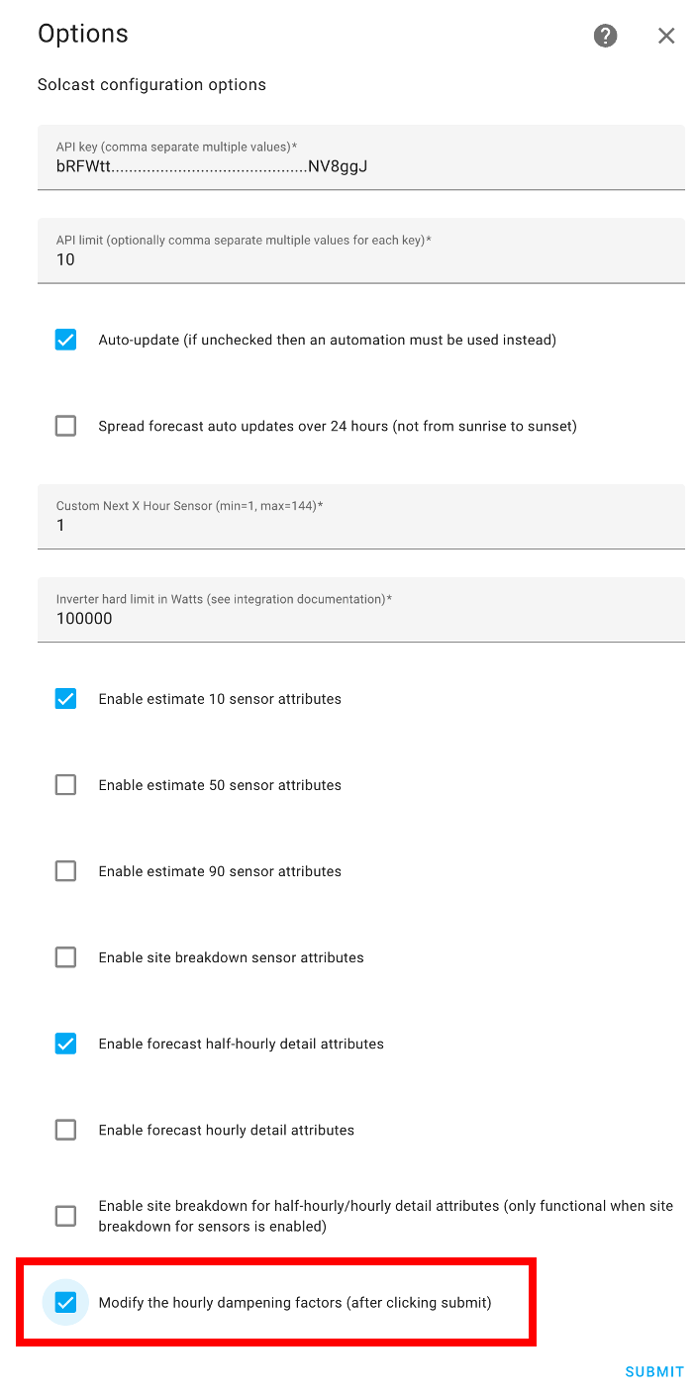
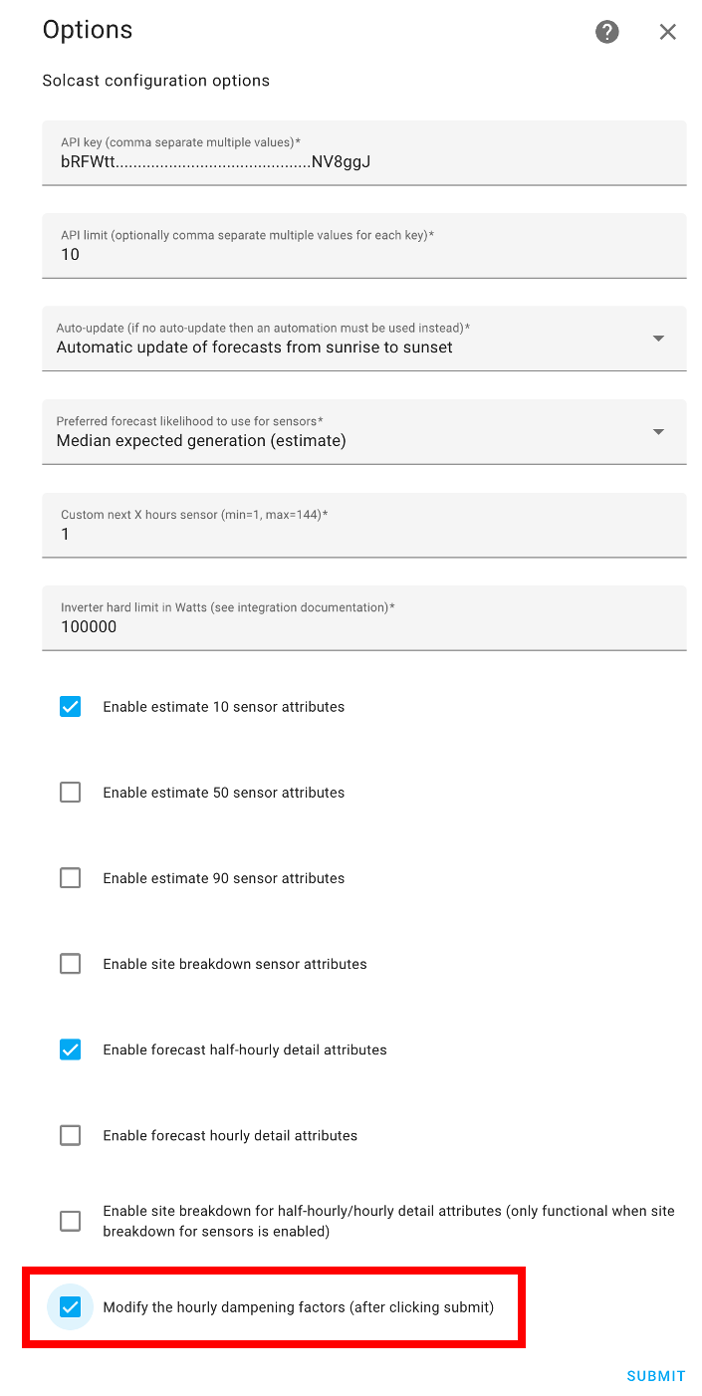
Update README.md

diff --git a/README.md b/README.md
@@ -132,7 +132,7 @@ You probably **do not** want to do this! Use the HACS method above unless you kn
  [<img src="https://github.com/BJReplay/ha-solcast-solar/blob/main/.github/SCREENSHOTS/Setupanewintegration.png">](https://github.com/BJReplay/ha-solcast-solar/blob/main/.github/SCREENSHOTS/Setupanewintegration.png)
 
 1. Enter your `Solcast API Key`, `API limit`, desired auto-update settings and click `Submit`. If you have more than one Solcast account because you have more than two rooftop setups, enter both account API keys separated by a comma `xxxxxxxx-xxxxx-xxxx,yyyyyyyy-yyyyy-yyyy` (_NB: this goes against Solcast T&C's by having more than one account_). If the API limit is the same for multiple accounts then enter a single value, or both values separated by a comma.
-1. If auto-update was not selected then create your own automation to call the service `solcast_solar.update_forecasts` at the times you would like to update the solar forecast.
+1. If an auto-update option was not chosen then create your own automation to call the service `solcast_solar.update_forecasts` at the times you would like to update the solar forecast.
 1. Set up HA Energy Dashboard settings.
 1. To change other configuration options after installation, select the integration in `Devices & services` then `CONFIGURE`.
 
@@ -148,7 +148,7 @@ Make sure you use your `API Key` and not your rooftop id created in Solcast. You
 > Once the sites data has been acquired at least once it is written to a cache file, and that cache will be used on subsequent startups should the Solcast API be temporarily unavailable.
 
 ### Auto-update of forecasts
-Using auto-update will schedule forecast updates that get automatically spread across hours when the sun is up. It calculates the number of daily updates that will occur according to the number of Solcast sites and the API limit that is configured.
+Using auto-update will schedule forecast updates that get automatically spread across hours when the sun is up, or alternatively over a 24-hour period. It calculates the number of daily updates that will occur according to the number of Solcast sites and the API limit that is configured.
 
 Should it be desired to fetch an update ouside of these hours, then the API limit in the integration configuration may be reduced, and an automation may then be set up to call the service `solcast_solar.force_update_forecasts` at the desired time of day. (Note that calling the service `solcast_solar.update_forecasts` will be refused if auto-update is enabled, so use force update instead.)
 
@@ -161,7 +161,7 @@ If auto-update is not enabled then create a new automation (or automations) and 
 
 To make the most of the available API calls per day, you can have the automation call the API using an interval calculated by the number of daytime hours divided by the number of total API calls a day you can make.
 
-This automation bases execution times on sunrise and sunset, which differ around the globe, so inherently spreads the load on Solcast. It also incorporates a randomised time offset. This will hopefully avoid the likelihood that the Solcast servers get inundated by multiple callers at the same time.
+This automation bases execution times on sunrise and sunset, which differ around the globe, so inherently spreads the load on Solcast. It is very similar to the behaviour of auto-update from sunrise to sunset, with the difference being that it also incorporates a randomised time offset, which will hopefully further avoid the likelihood that the Solcast servers get inundated by multiple callers at the same time.
 
 ```yaml
 alias: Solcast update
